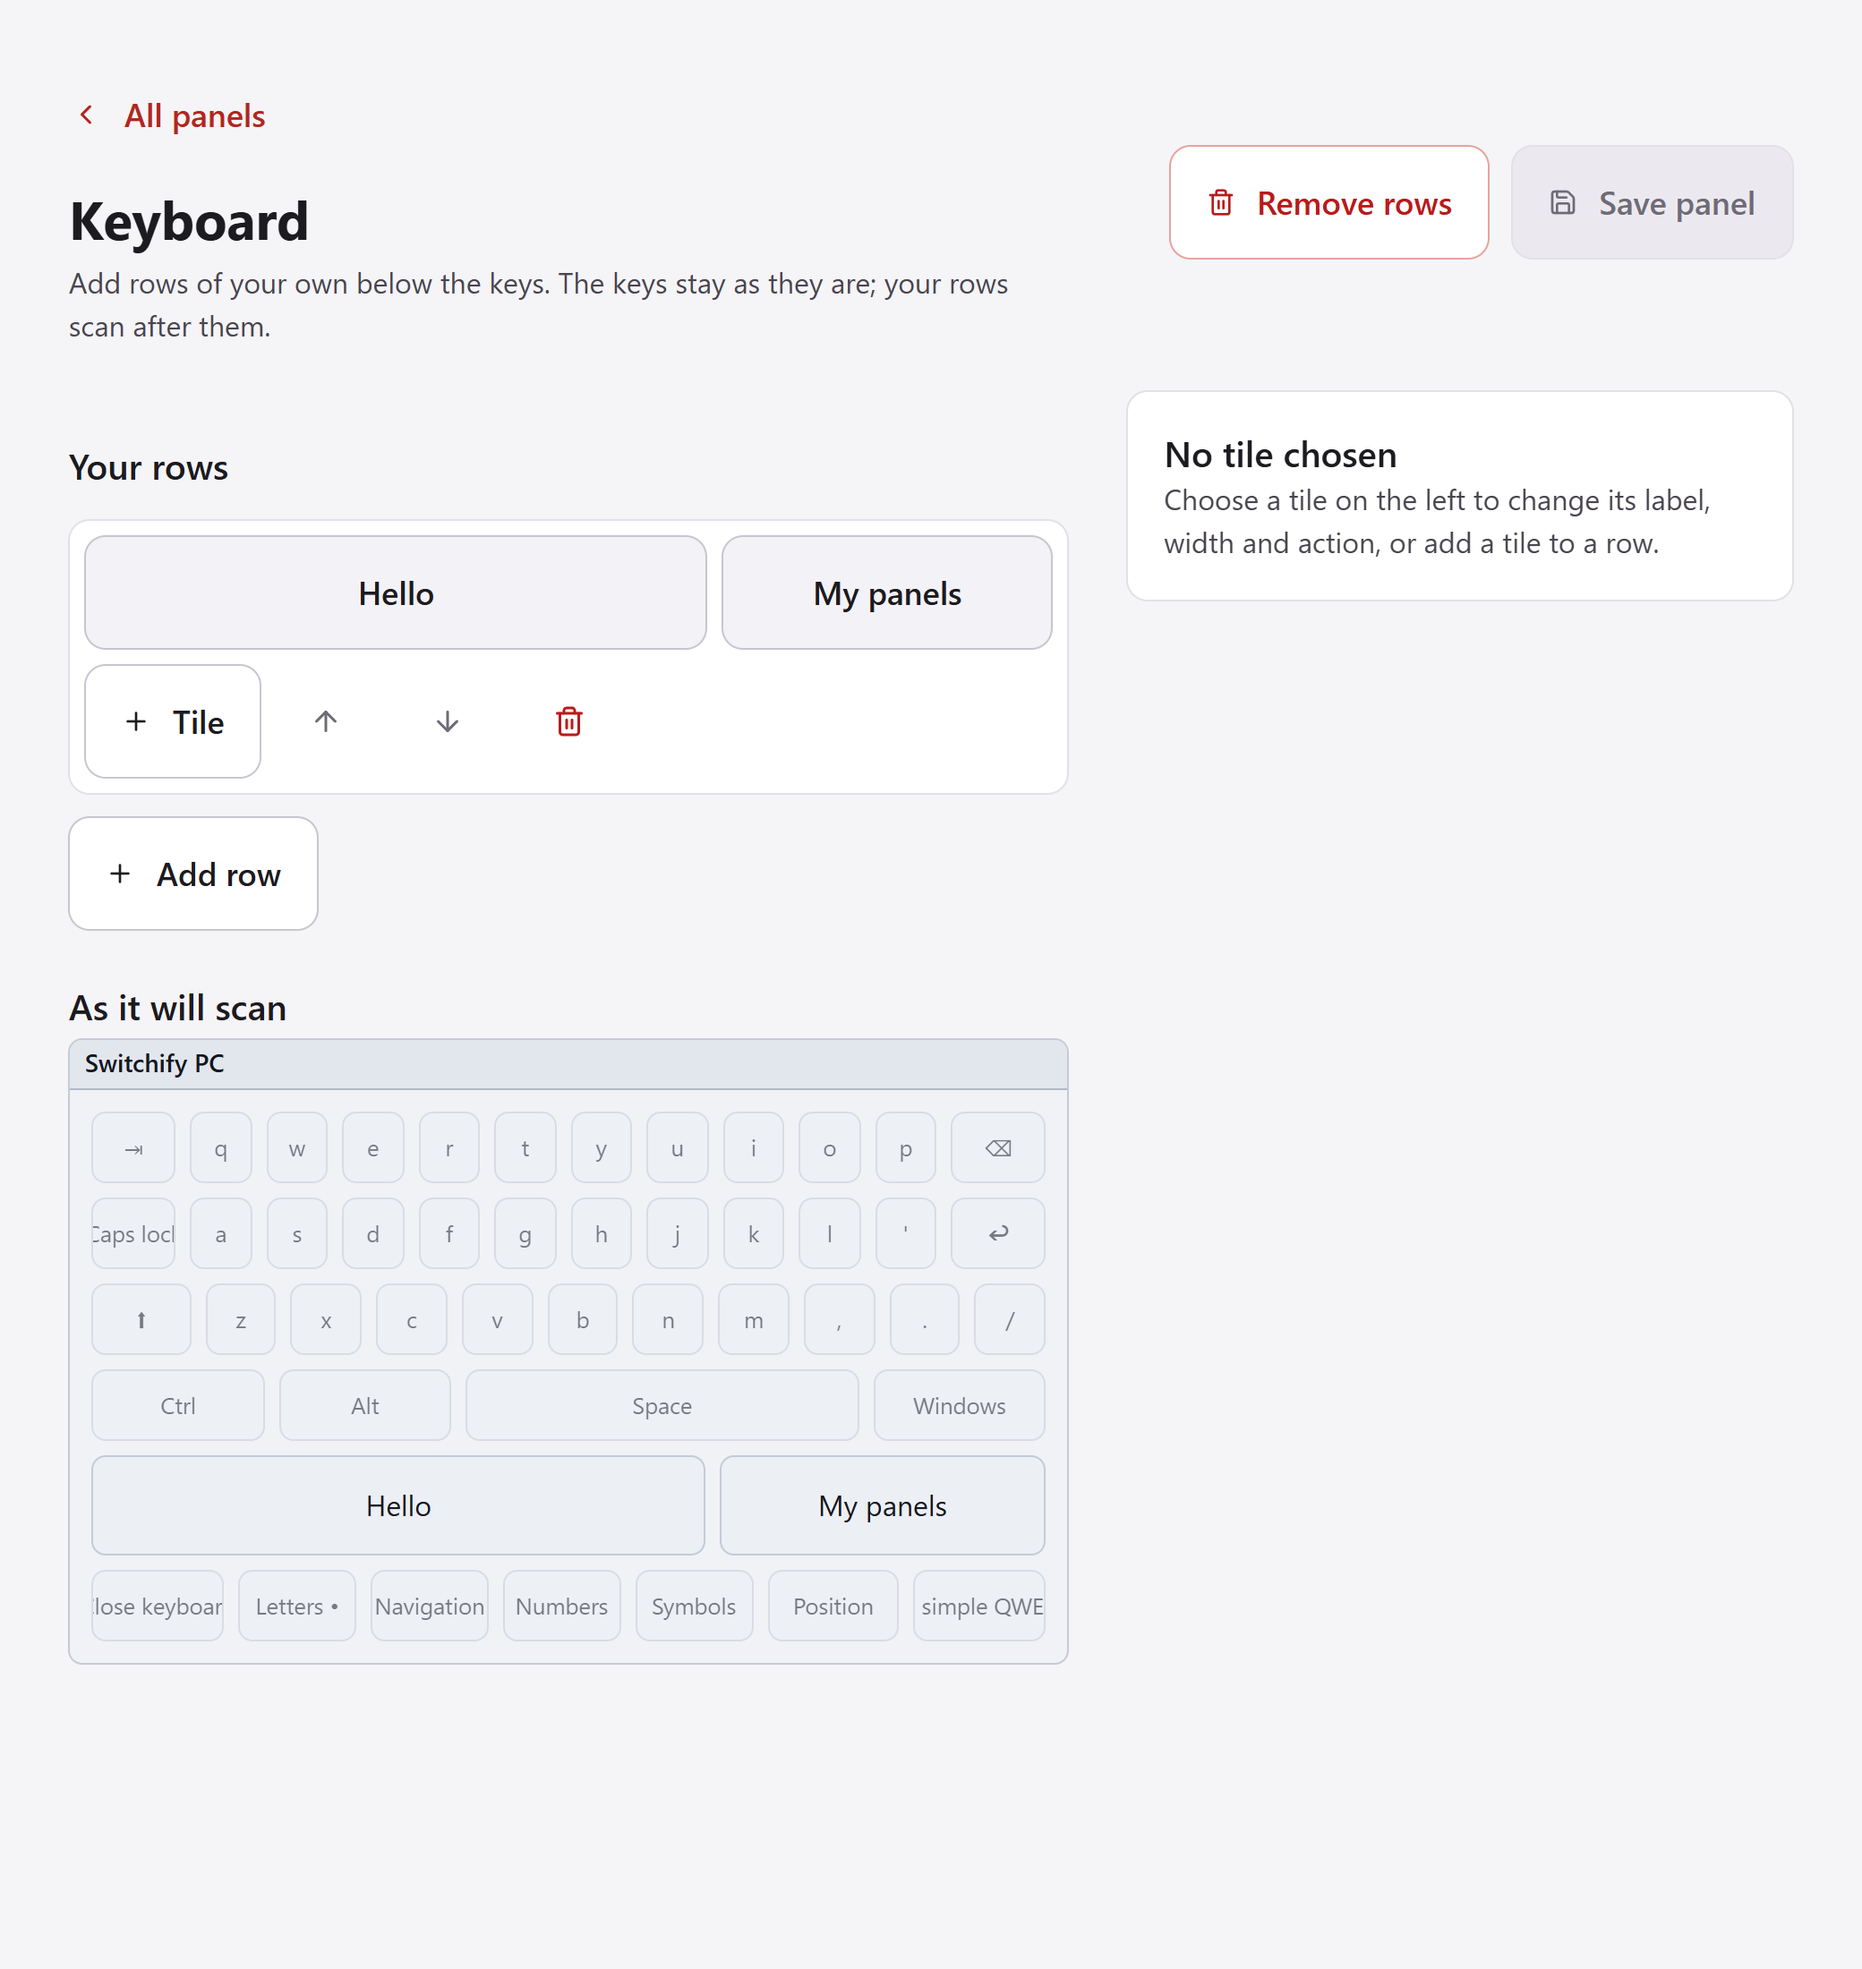
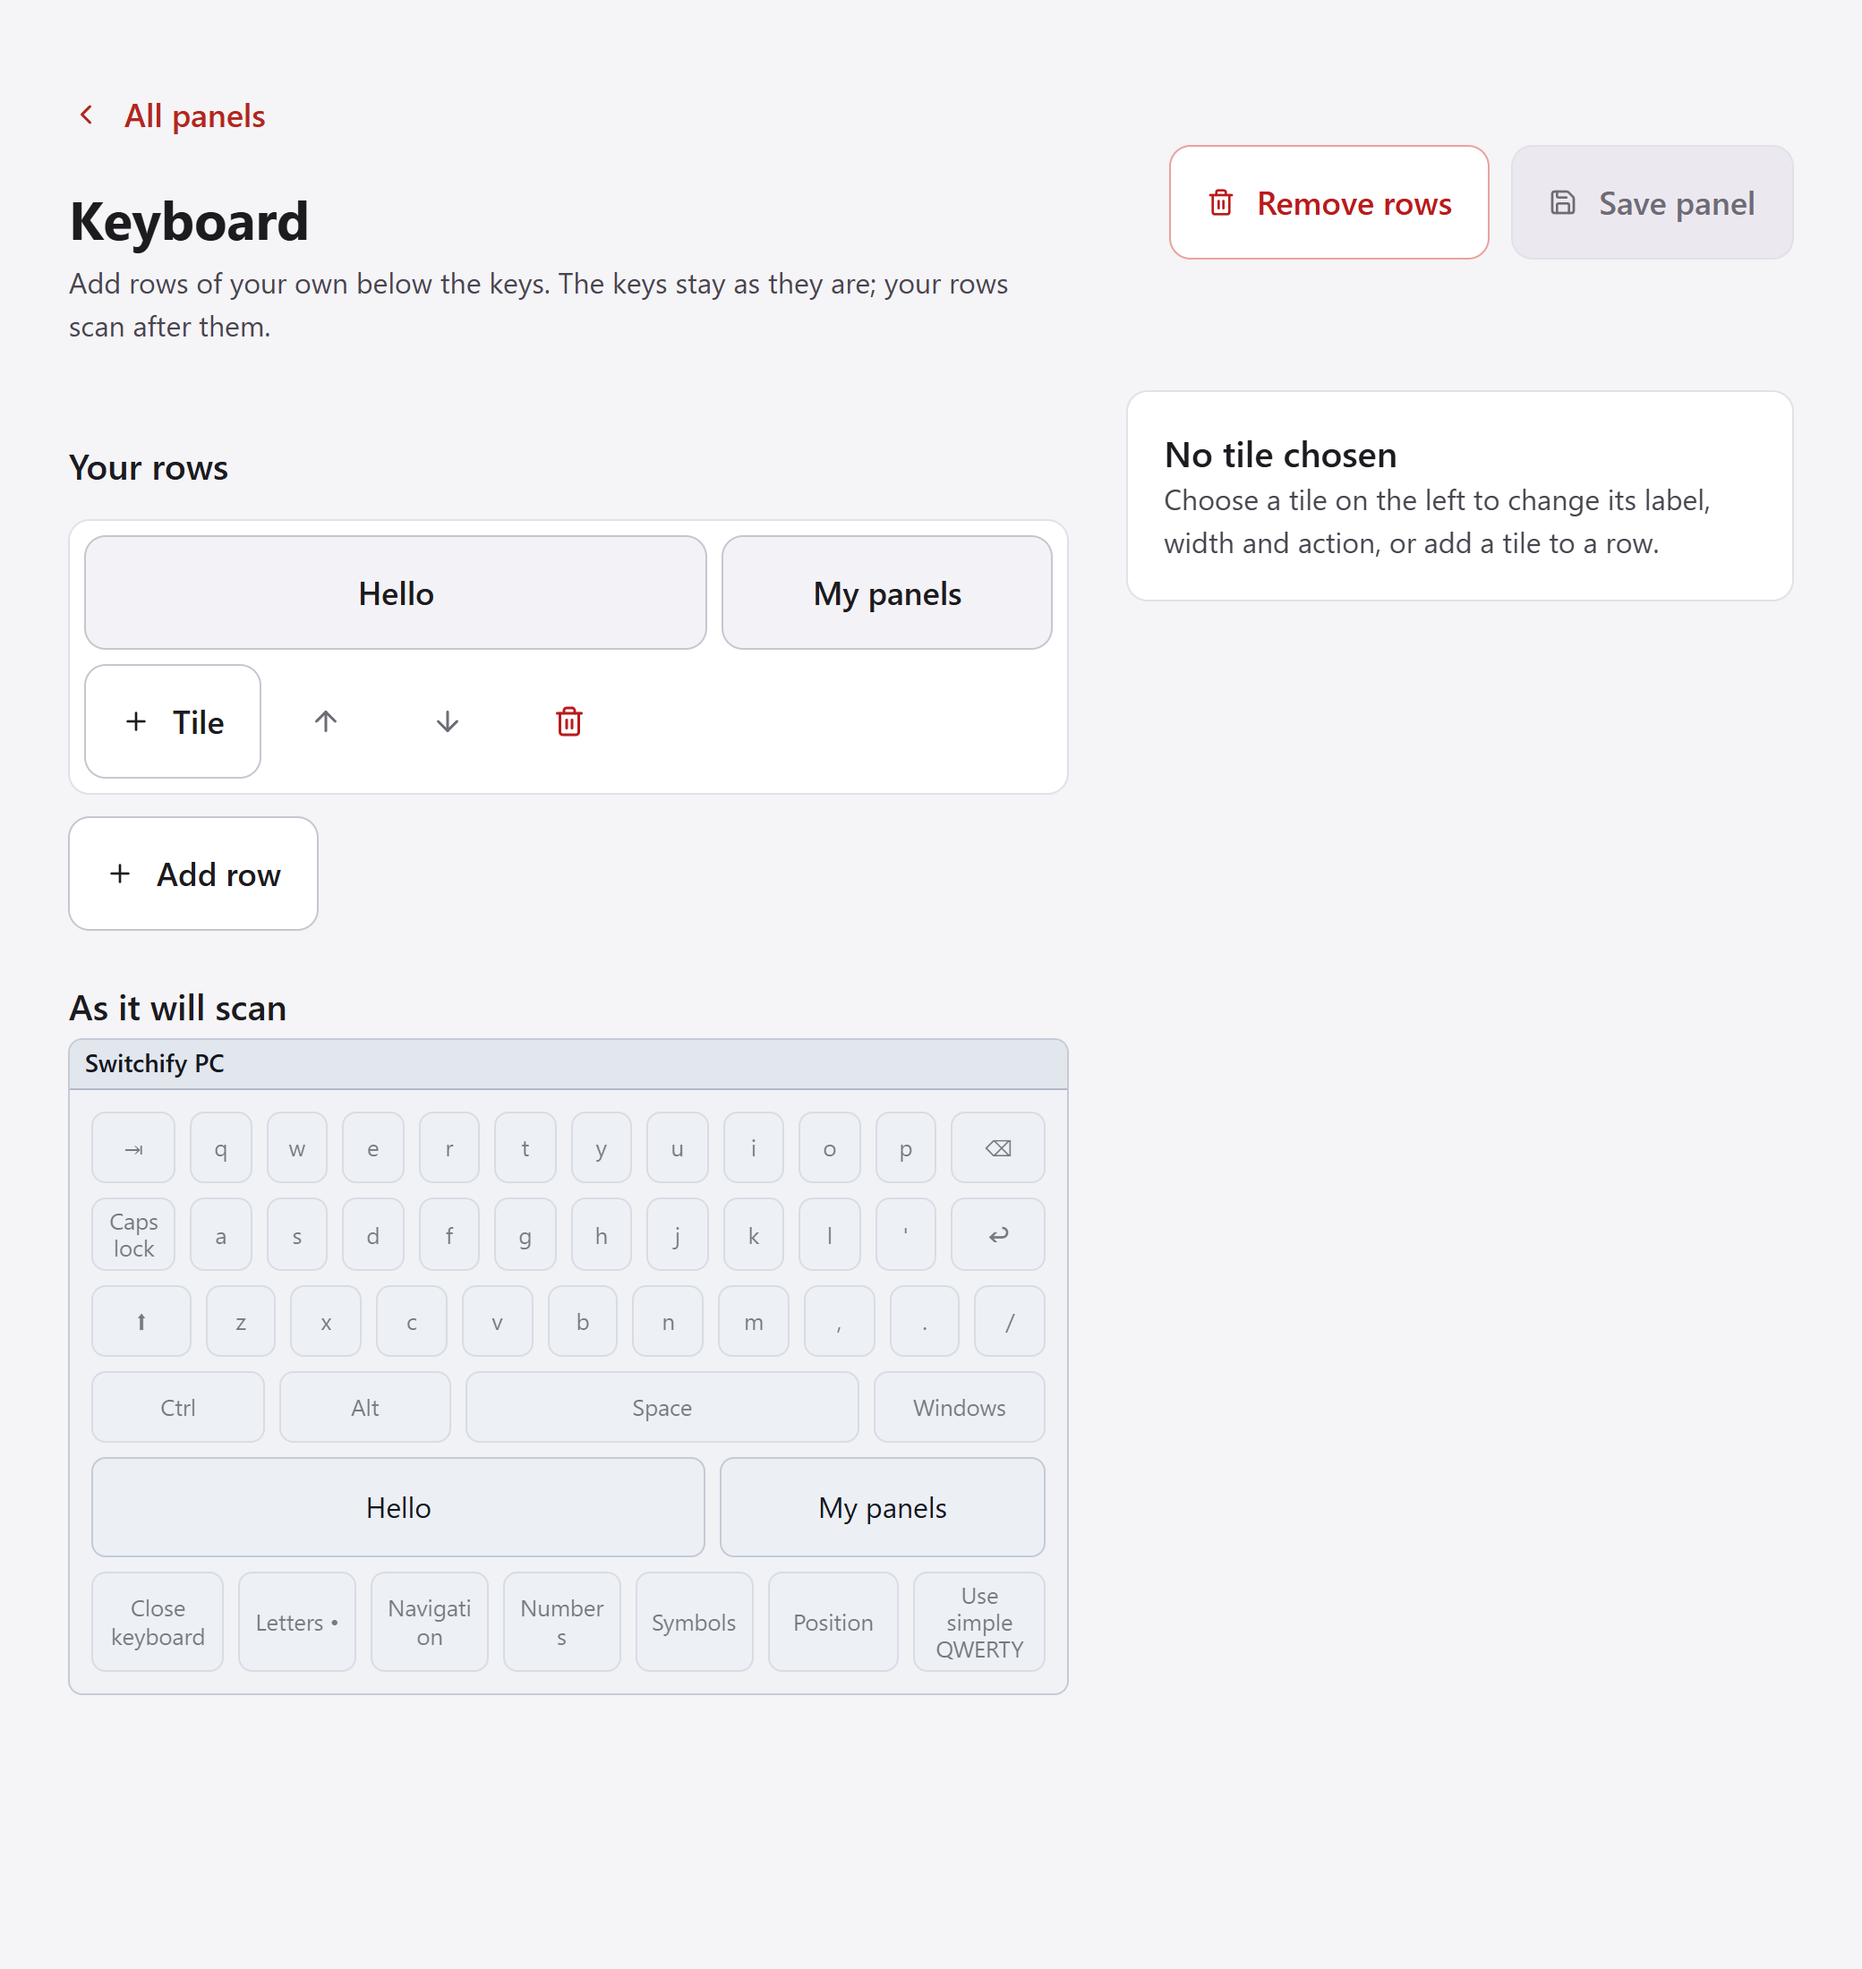
Address review: say where Back and Close go, let long key labels wrap

diff --git a/src/ui/app.css b/src/ui/app.css
@@ -287,7 +287,7 @@ main { min-width: 0; }
 /* A native panel's own keys: there to place the user's rows, not to read. */
 .panel-picture-tile[data-fixed] { opacity: 0.55; min-height: 22px; padding: 1px 2px; font-size: 0.8em; white-space: nowrap; }
 .panel-picture-large { font-size: 1rem; }
-.panel-picture-large .panel-picture-tile[data-fixed] { min-height: 40px; padding: 4px 6px; }
+.panel-picture-large .panel-picture-tile[data-fixed] { min-height: 40px; padding: 4px 6px; white-space: normal; }
 .panel-picture-large .panel-picture-band { height: 28px; font-size: 0.875rem; }
 .panel-picture-large .panel-picture-rows { gap: 8px; padding: 12px; }
 .panel-picture-large .panel-picture-row { gap: 8px; }

diff --git a/site/src/content/docs/using/panels.md b/site/src/content/docs/using/panels.md
@@ -63,7 +63,7 @@ Rearranged menus are saved on this computer and, if you sign in to your account,
 
 Below the built-in menus, **Mouse panel and keyboard** shows the two scanning panels with their keys. The keys cannot be changed, but you can add rows of your own tiles below them: a phrase you type often, a shortcut, or a link to one of your panels. Choose a panel, then **Add row**, and give each tile a label and an action as on any panel. Up to four rows fit. Choose **Save panel**; the card then says how many rows you added.
 
-The rows appear on the mouse panel's Movement page and on every keyboard page, just above the bottom row, and scan like the rest. A tile acts as it does on your panels. On the keyboard, a tile that types waits for the text to land before scanning on, like a key. **Back** and **Close** leave the panel as its own Close key does. A tile that opens a menu or one of your panels from the mouse panel comes back to it with Back; from the keyboard, Back goes to Home.
+The rows appear on the mouse panel's Movement page and on every keyboard page, just above the bottom row, and scan like the rest. A tile acts as it does on your panels. On the keyboard, a tile that types waits for the text to land before scanning on, like a key. **Back** and **Close** leave the panel: from the keyboard they close it, and from the mouse panel they switch to point scanning, as its own Switch to Point key does. A tile that opens a menu or one of your panels from the mouse panel comes back to it with Back; from the keyboard, Back goes to Home.
 
 **Remove rows** takes the panel back to its keys alone. Switchify PC asks first.
 
